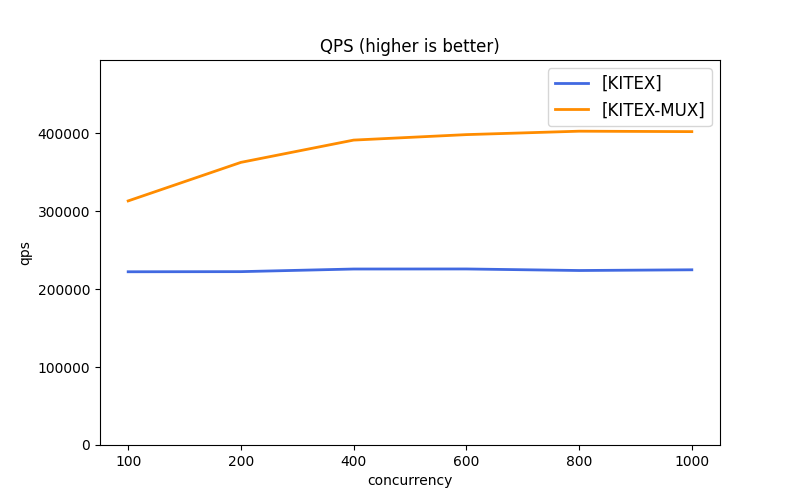
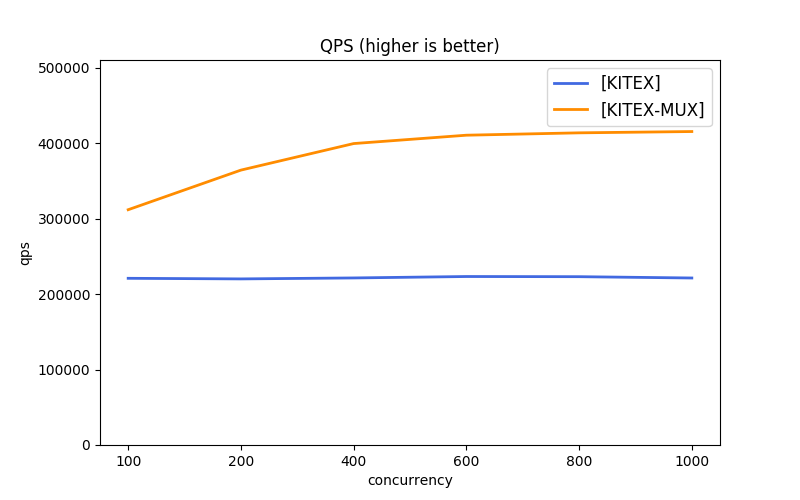
doc:update benchmark data to Go 1.17

diff --git a/README_cn.md b/README_cn.md
@@ -160,14 +160,14 @@ sleep=0
 * CPU:    Intel(R) Xeon(R) Gold 5118 CPU @ 2.30GHz
     * 运行限定 server 4-CPUs, client 16-CPUs
 * OS:     Debian 5.4.56.bsk.1-amd64 x86_64 GNU/Linux
-* Go:     1.15.4
+* Go:     1.17
 
 ### 数据 (echo size 1KB)
 
 - [Thrift Raw Data](scripts/reports/pb.csv)
 - [Protobuf Raw Data](scripts/reports/pb.csv)
 - [GRPC Raw Data](scripts/reports/grpc.csv)
-
+ 
 #### Thrift
 
 ![image](docs/images/thrift_qps.png)

diff --git a/README.md b/README.md
@@ -162,7 +162,7 @@ The benchmark ensures the caller has sufficient machine resources **overwhelming
 * CPU: Intel(R) Xeon(R) Gold 5118 CPU @ 2.30GHz
     * server 4-CPUs, client 16-CPUs
 * OS: Debian 5.4.56.bsk.1-amd64 x86_64 GNU/Linux
-* Go: 1.15.4
+* Go: 1.17
 
 ### Data (echo size 1KB)
 
